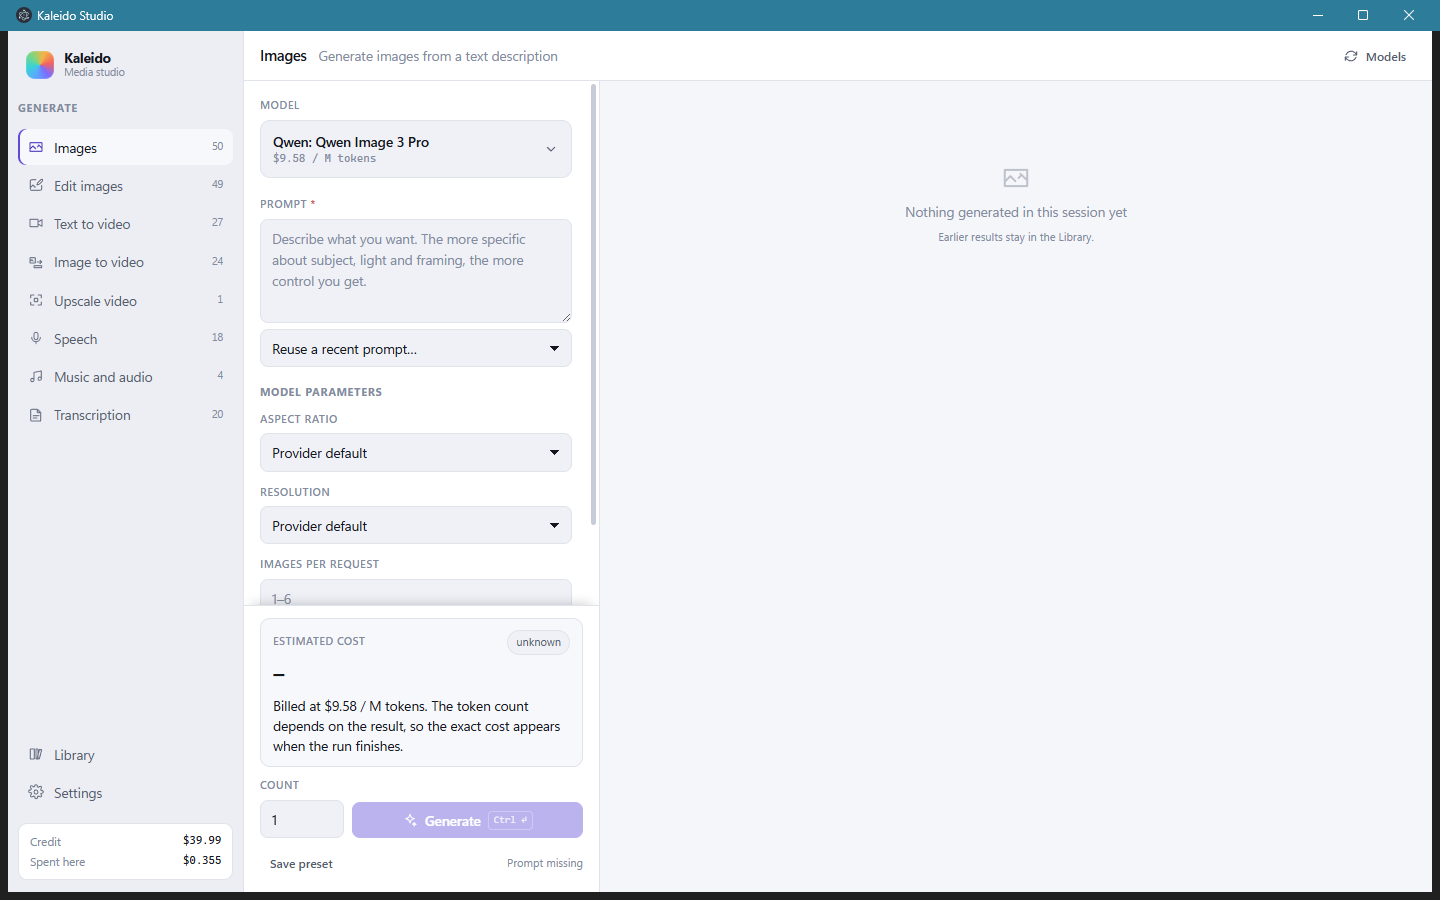
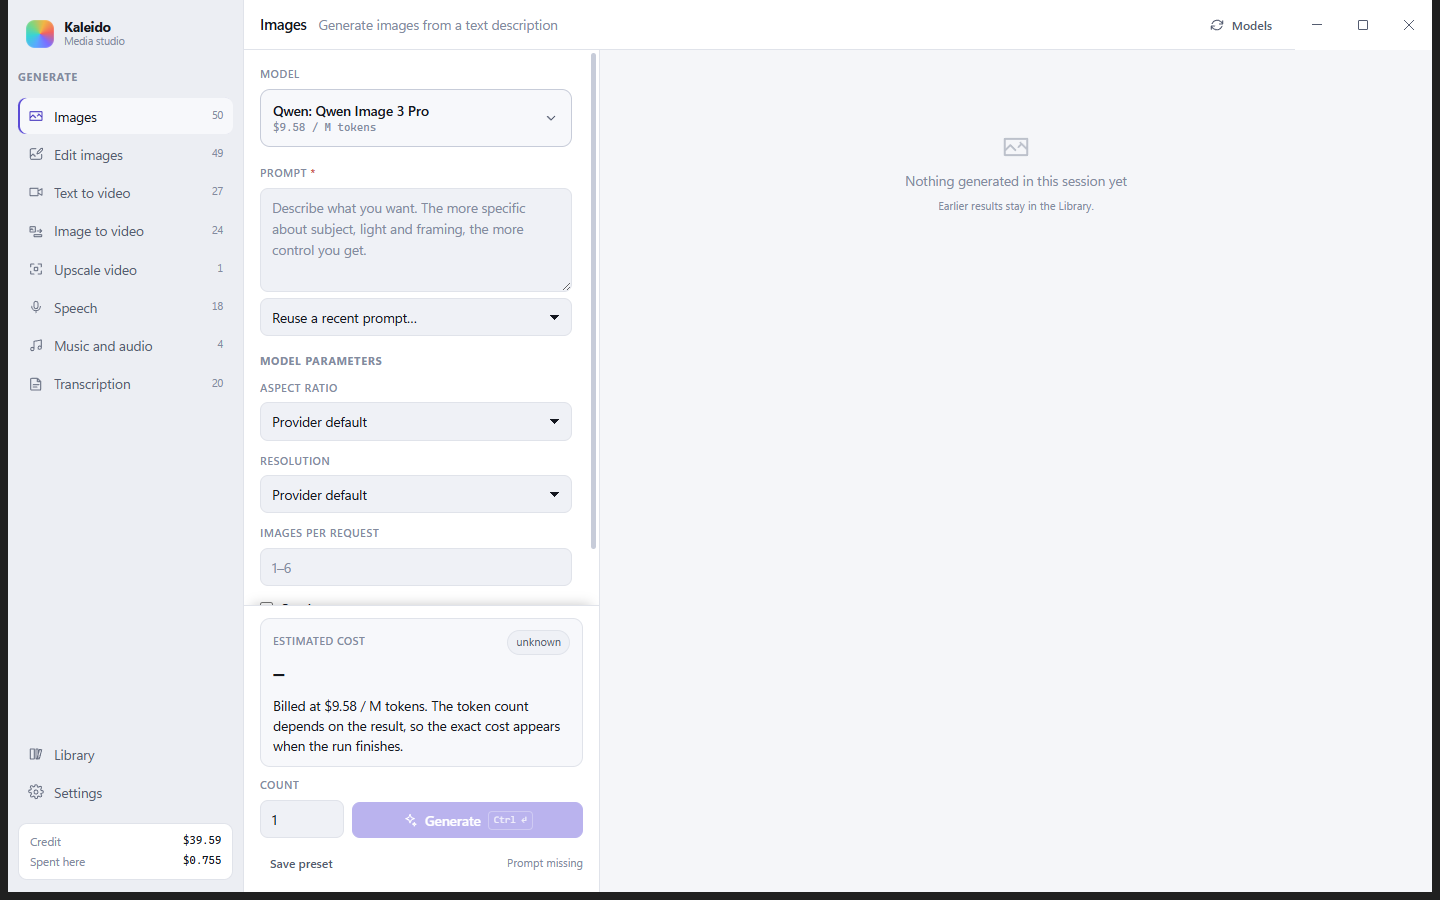
fix(ui): keep the title bar out from under dialogs, and retake the screenshots
The caption buttons are painted by the system on top of everything, a scrim
included, so a full-screen overlay left a bright opaque rectangle floating in
the corner of its own blur. Overlays now start below the title bar, which stays
a bar rather than becoming a cut-out.

Screenshots retaken with the integrated title bar. Adds a shot of the model
picker: it shows fifty models read live from OpenRouter with each price, which
is the claim the rest of the page only makes in prose.

Changed region(s): [[0.0, 0.0, 1.0, 0.6533], [0.0, 0.2489, 0.0938, 0.4667], [0.625, 0.1556, 0.7812, 0.28]]

diff --git a/src/styles.css b/src/styles.css
@@ -767,7 +767,10 @@ select {
 
 .overlay {
   position: fixed;
-  inset: 0;
+  /* Starts below the title bar. The caption buttons are painted by the system
+     on top of everything, so a scrim that covered them left an opaque rectangle
+     floating over the blur. */
+  inset: 50px 0 0 0;
   background: rgb(0 0 0 / 58%);
   backdrop-filter: blur(4px);
   display: flex;
@@ -1154,7 +1157,7 @@ select {
 
 .viewer {
   position: fixed;
-  inset: 0;
+  inset: 50px 0 0 0;
   /* Near-opaque: at 90% the app behind stayed legible and competed with the
      image the viewer exists to show. */
   background: rgb(6 7 10 / 97%);

diff --git a/CHANGELOG.md b/CHANGELOG.md
@@ -6,6 +6,21 @@ All notable changes to this project are documented here. The format follows
 
 ## [Unreleased]
 
+## [1.3.3] - 2026-09-08
+
+### Fixed
+
+- **Dialogs no longer left an opaque rectangle over their own blur.** The caption
+  buttons are painted by the system on top of everything, including a scrim, so
+  a full-screen overlay produced a bright block floating in the corner. Overlays
+  now begin below the title bar, which stays a bar instead of becoming a cut-out.
+
+### Changed
+
+- README screenshots retaken with the integrated title bar, and a shot of the
+  model picker added: it shows the catalog read live from OpenRouter with each
+  model price, which is the claim the rest of the page makes in prose.
+
 ## [1.3.2] - 2026-09-08
 
 ### Changed
@@ -171,7 +186,8 @@ First release.
   cost and disk usage.
 - Installers for Windows, macOS and Linux, built by CI.
 
-[Unreleased]: https://github.com/rlpb/kaleido-studio/compare/v1.3.2...HEAD
+[Unreleased]: https://github.com/rlpb/kaleido-studio/compare/v1.3.3...HEAD
+[1.3.3]: https://github.com/rlpb/kaleido-studio/compare/v1.3.2...v1.3.3
 [1.3.2]: https://github.com/rlpb/kaleido-studio/compare/v1.3.1...v1.3.2
 [1.3.1]: https://github.com/rlpb/kaleido-studio/compare/v1.3.0...v1.3.1
 [1.3.0]: https://github.com/rlpb/kaleido-studio/compare/v1.2.1...v1.3.0

diff --git a/README.md b/README.md
@@ -84,6 +84,10 @@ the control panel from it. A new model with parameters nobody has seen before
 gets a correct form without a line of code being touched. When a provider adds a
 knob, its label falls back to the one the API supplied rather than disappearing.
 
+<div align="center">
+<img src="docs/screenshot-models.png" alt="The model picker, listing the catalog read from OpenRouter with each model's live price" width="900">
+</div>
+
 ## How a generation works
 
 1. You pick a mode, which pins an endpoint and the kind of input it needs.

diff --git a/README.it.md b/README.it.md
@@ -87,6 +87,10 @@ ottiene il suo form corretto senza che venga toccata una riga di codice. Quando
 un provider aggiunge una manopola, la sua etichetta ripiega su quella fornita
 dall'API invece di sparire.
 
+<div align="center">
+<img src="docs/screenshot-models.png" alt="Il selettore dei modelli, con il catalogo letto da OpenRouter e il prezzo aggiornato di ciascuno" width="900">
+</div>
+
 ## Come avviene una generazione
 
 1. Scegli una modalità, che fissa l'endpoint e il tipo di input richiesto.
